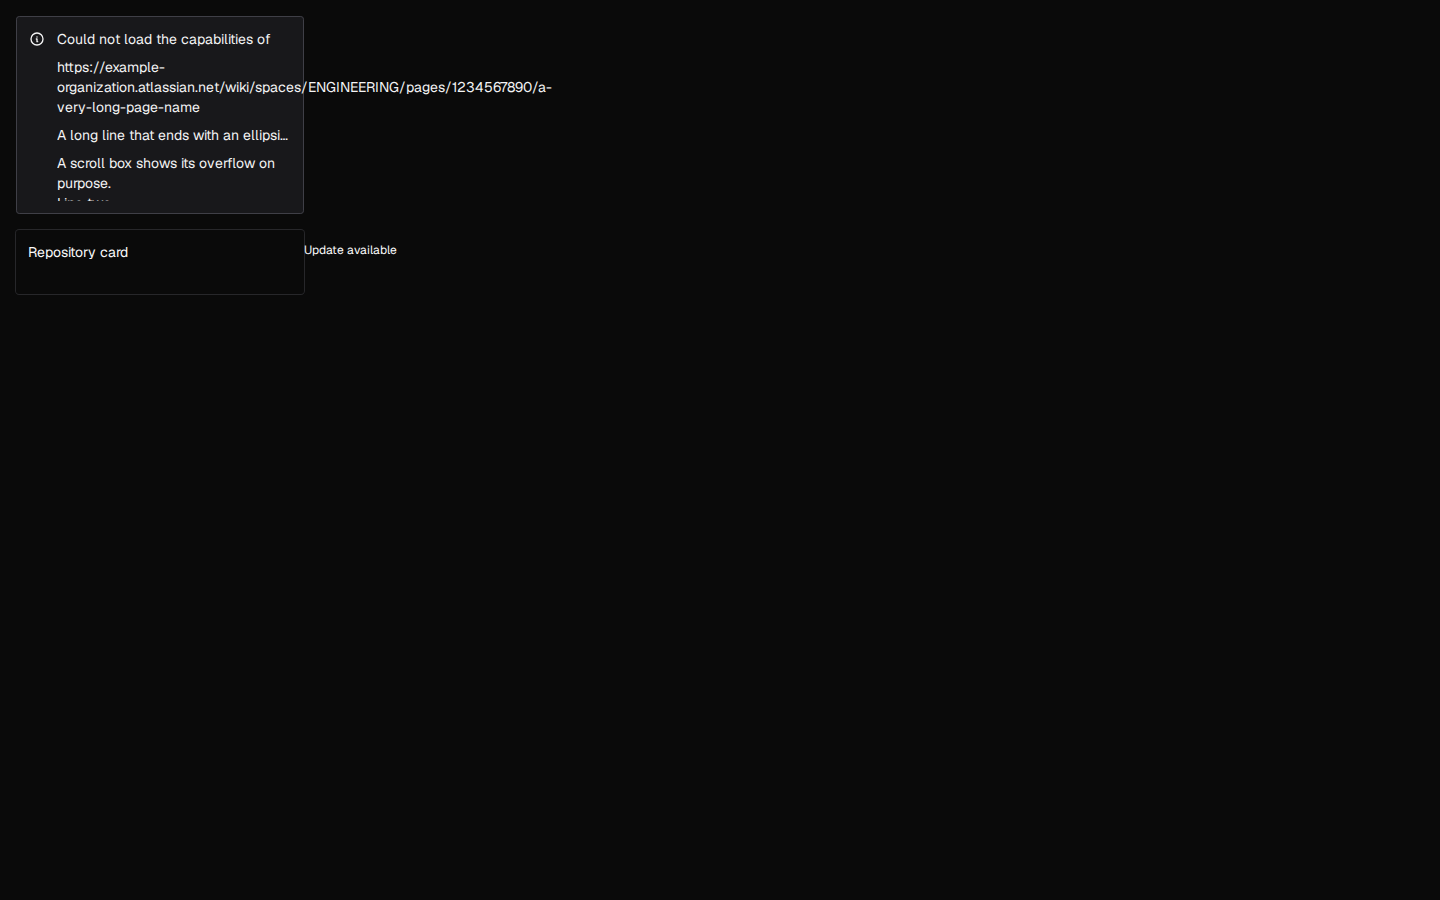
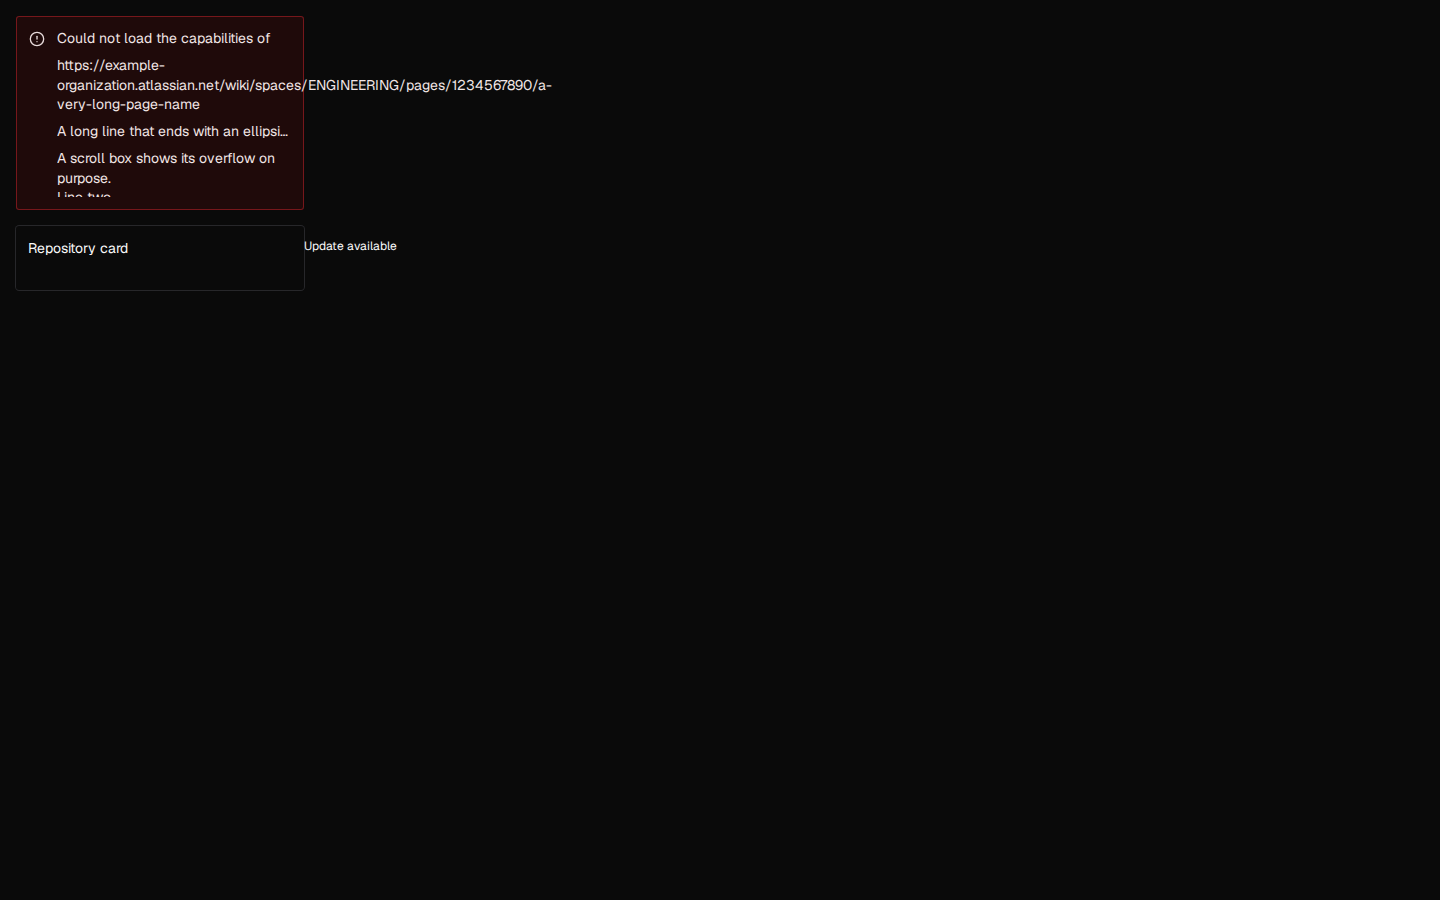
Layout checks: answers to the second review round (CTX-1277)
- axes: a box with a border or fill is its own panel, except a list
  item with one marker (a filled row of the column). An alert in a
  dialog has its own axes again.
- The masks of a story hide the same elements for the layout checks as
  for the screenshot.
- The overflow fixture uses the shared InlineAlert.
- One helper for the text boxes and one for "no common area"; the
  VisualOptions.allow type comes from the manifest enum; LayoutRule is
  not exported.
- WorkspacePane stories merge the opt-out after the spread of their
  parameters.

Changed region(s): [[0.0, 0.0311, 0.375, 0.3111], [0.1875, 0.2489, 0.2812, 0.28]]

diff --git a/apps/ui/src/lib/layout-checks.ts b/apps/ui/src/lib/layout-checks.ts
@@ -16,7 +16,7 @@
  * (scripts/checks/visual.mjs). The fixture stories of
  * `layout-checks.stories.tsx` prove each rule.
  */
-export type LayoutRule = "overflow" | "axes" | "contrast"
+type LayoutRule = "overflow" | "axes" | "contrast"
 
 type LayoutProblem = {
   rule: LayoutRule
@@ -93,16 +93,9 @@ const dialogs = "dialog, [role=dialog], [role=alertdialog], [data-slot=modal]"
 function overflowProblems(root: Element): LayoutProblem[] {
   const problems: LayoutProblem[] = []
   const named = new Set<Element>()
-  const walker = document.createTreeWalker(root, NodeFilter.SHOW_TEXT)
-  for (let node = walker.nextNode(); node; node = walker.nextNode()) {
+  for (const { node, rects } of textRects(root)) {
     const parent = node.parentElement
-    if (!parent || !node.textContent?.trim() || parent.closest("svg")) continue
-    const range = document.createRange()
-    range.selectNodeContents(node)
-    const rects = [...range.getClientRects()].filter(
-      (rect) => rect.width && rect.height,
-    )
-    if (!rects.length || !visible(parent)) continue
+    if (!parent || parent.closest("svg") || !visible(parent)) continue
     const text = {
       left: Math.min(...rects.map((rect) => rect.left)),
       right: Math.max(...rects.map((rect) => rect.right)),
@@ -162,11 +155,7 @@ function boxAroundText(
       const hidden =
         inner.right - inner.left <= 1 ||
         inner.bottom - inner.top <= 1 ||
-        (clips &&
-          (text.right <= inner.left ||
-            text.left >= inner.right ||
-            text.bottom <= inner.top ||
-            text.top >= inner.bottom))
+        (clips && apart(text, inner))
       if (hidden || !seen(box, text)) return undefined
       return {
         box,
@@ -223,16 +212,32 @@ function seen(box: Element, text: Edges): boolean {
   ) {
     const style = getComputedStyle(element)
     if (style.overflowX === "visible" && style.overflowY === "visible") continue
-    const clip = element.getBoundingClientRect()
-    if (
-      text.right <= clip.left ||
-      text.left >= clip.right ||
-      text.bottom <= clip.top ||
-      text.top >= clip.bottom
-    )
-      return false
+    if (apart(text, element.getBoundingClientRect())) return false
   }
   return true
+}
+
+/** True when the text and the box have no area in common. */
+const apart = (text: Edges, box: Edges) =>
+  text.right <= box.left ||
+  text.left >= box.right ||
+  text.bottom <= box.top ||
+  text.top >= box.bottom
+
+/** Each text node in `root` with text, and the boxes of its lines. */
+function textRects(root: Element): { node: Text; rects: DOMRect[] }[] {
+  const found: { node: Text; rects: DOMRect[] }[] = []
+  const walker = document.createTreeWalker(root, NodeFilter.SHOW_TEXT)
+  for (let node = walker.nextNode(); node; node = walker.nextNode()) {
+    if (!(node instanceof Text) || !node.textContent?.trim()) continue
+    const range = document.createRange()
+    range.selectNodeContents(node)
+    const rects = [...range.getClientRects()].filter(
+      (rect) => rect.width && rect.height,
+    )
+    if (rects.length) found.push({ node, rects })
+  }
+  return found
 }
 
 /** The edge of `box` that the text passes most, beyond the tolerance. */
@@ -262,9 +267,9 @@ function axisProblems(root: Element): LayoutProblem[] {
   const problems: LayoutProblem[] = []
   for (const scope of scopes) {
     if (!visible(scope)) continue
-    // Markers in one panel: a box with its own border or fill around two or
-    // more markers (a bordered list, a card) has its own axes. A box around
-    // one marker is a row of its column (a filled row, a selected item).
+    // Markers in one panel: a box with its own border or fill (a bordered
+    // list, a card, an alert) has its own axes. A list item with one marker
+    // is a row of its column (a filled row, a selected item).
     const markers = leadingMarkers(scope)
     const panels = new Map<Element, Marker[]>()
     for (const marker of markers) {
@@ -277,7 +282,10 @@ function axisProblems(root: Element): LayoutProblem[] {
         const holds = markers.filter((other) =>
           panel.contains(other.element),
         ).length
-        if (boxed && holds > 1) break
+        const row = panel.matches(
+          "li, [role=listitem], [role=option], [role=row], [role=menuitem], [role=treeitem]",
+        )
+        if (boxed && (holds > 1 || !row)) break
       }
       panels.set(panel, [...(panels.get(panel) ?? []), marker])
     }
@@ -315,14 +323,7 @@ function axisProblems(root: Element): LayoutProblem[] {
  * line. A table cell, and an icon before a text field, are not markers.
  */
 function leadingMarkers(scope: Element): Marker[] {
-  const lines: DOMRect[] = []
-  const walker = document.createTreeWalker(scope, NodeFilter.SHOW_TEXT)
-  for (let node = walker.nextNode(); node; node = walker.nextNode()) {
-    if (!node.textContent?.trim()) continue
-    const range = document.createRange()
-    range.selectNodeContents(node)
-    lines.push(...range.getClientRects())
-  }
+  const lines = textRects(scope).flatMap(({ rects }) => rects)
   const markers: Marker[] = []
   for (const row of scope.querySelectorAll("*")) {
     if (row instanceof SVGElement) continue

diff --git a/apps/ui/src/lib/layout-checks.stories.tsx b/apps/ui/src/lib/layout-checks.stories.tsx
@@ -3,6 +3,7 @@ import { IconCheck, IconInfoCircle } from "@tabler/icons-react"
 import { expect } from "storybook/test"
 
 import { Card } from "@/components/ui/Card"
+import { InlineAlert } from "@/components/ui/InlineAlert"
 
 import { layoutProblems } from "./layout-checks"
 
@@ -33,26 +34,26 @@ function Overflow({ fixed }: { fixed: boolean }) {
   )
 }
 
+// The shared alert, with a long URL that runs out of it when `breakUrl` is
+// false.
 function Alert({ breakUrl }: { breakUrl: boolean }) {
   return (
-    <div
-      role="alert"
-      className="flex w-72 gap-3 rounded-md border border-zinc-700 bg-zinc-900 p-3 text-sm text-zinc-100"
-    >
-      <IconInfoCircle className="mt-0.5 size-4 shrink-0" aria-hidden />
-      <div className="min-w-0 flex-1 space-y-2">
-        <p>Could not load the capabilities of</p>
-        <p className={breakUrl ? "break-all" : undefined}>{longUrl}</p>
-        <p className="truncate">
-          A long line that ends with an ellipsis, on purpose
-        </p>
-        <div className="h-12 overflow-y-auto">
-          <p>A scroll box shows its overflow on purpose.</p>
-          <p>Line two.</p>
-          <p>Line three.</p>
-          <p>Line four.</p>
+    <div className="w-72">
+      <InlineAlert variant="error">
+        <div className="space-y-2">
+          <p>Could not load the capabilities of</p>
+          <p className={breakUrl ? "break-all" : undefined}>{longUrl}</p>
+          <p className="truncate">
+            A long line that ends with an ellipsis, on purpose
+          </p>
+          <div className="h-12 overflow-y-auto">
+            <p>A scroll box shows its overflow on purpose.</p>
+            <p>Line two.</p>
+            <p>Line three.</p>
+            <p>Line four.</p>
+          </div>
         </div>
-      </div>
+      </InlineAlert>
     </div>
   )
 }

diff --git a/apps/ui/src/features/workspaces/WorkspacePane.stories.tsx b/apps/ui/src/features/workspaces/WorkspacePane.stories.tsx
@@ -630,10 +630,11 @@ function conversationFileStory(path: string): Story {
  * not in git, so the conversation shows the reason and no editor.
  */
 export const LegacyKnowledgeReadOnly: Story = {
+  ...conversationFileStory(legacyPath),
   parameters: {
+    ...conversationFileStory(legacyPath).parameters,
     visual: { allow: { contrast: "Text below WCAG AA on main (CTX-1278)." } },
   },
-  ...conversationFileStory(legacyPath),
   play: async ({ canvasElement }) => {
     const canvas = within(canvasElement)
     await waitFor(() => {
@@ -645,10 +646,11 @@ export const LegacyKnowledgeReadOnly: Story = {
 
 /** In the same conversation, a git file opens in the editor. */
 export const GitFileEditable: Story = {
+  ...conversationFileStory(ledgerPath),
   parameters: {
+    ...conversationFileStory(ledgerPath).parameters,
     visual: { allow: { contrast: "Text below WCAG AA on main (CTX-1278)." } },
   },
-  ...conversationFileStory(ledgerPath),
   play: async ({ canvasElement }) => {
     await expectFileEditable(canvasElement, "Billing ledger", true)
     expect(

diff --git a/packages/visual-review/src/compare/baselines.ts b/packages/visual-review/src/compare/baselines.ts
@@ -22,6 +22,7 @@ import {
 } from "./manifest.ts"
 
 type Viewport = "desktop" | "mobile"
+type LayoutProblem = NonNullable<ManifestStory["layout"]>[number]
 
 /** A story entry of the Storybook index (`storybook-static/index.json`). */
 export type IndexStory = {
@@ -50,7 +51,7 @@ export type VisualOptions = {
   fullPage?: boolean
   masks?: string[]
   /** The layout rules that the story accepts, each with its reason. */
-  allow?: Partial<Record<"overflow" | "axes" | "contrast", string>>
+  allow?: Partial<Record<Exclude<LayoutProblem["rule"], "error">, string>>
 }
 
 /**

diff --git a/.agents/skills/storybook/SKILL.md b/.agents/skills/storybook/SKILL.md
@@ -158,7 +158,7 @@ A story controls its screenshots with `parameters: { visual: { ... } }`, in the 
 
 ## Layout checks
 
-After the screenshot of the end state of a story, the capture runs the layout checks in the same page ([`apps/ui/src/lib/layout-checks.ts`](../../../apps/ui/src/lib/layout-checks.ts)). The browser has the real layout, so the numbers are exact. A problem fails the `storybook:visual` check of the story, also when the pixels did not change. The message names the viewport, the rule, the element and the numbers. A named snapshot has no layout checks.
+After the screenshot of the end state of a story, the capture runs the layout checks in the same page ([`apps/ui/src/lib/layout-checks.ts`](../../../apps/ui/src/lib/layout-checks.ts)). The browser has the real layout, so the numbers are exact. A problem fails the `storybook:visual` check of the story, also when the pixels did not change. The message names the viewport, the rule, the element and the numbers. A named snapshot has no layout checks. The masks of the story (`data-visual-mask` and `masks`) hide the same elements for the checks as for the screenshot.
 
 - `overflow`: text that runs out of a box around it, or that a box clips with no ellipsis, and dialog text outside of the viewport. The message names the innermost box. Text in a scroll container, `truncate` and `line-clamp` text, and text that a clip or the viewport hides completely (a collapsed panel, a pane that slides in) are not problems. A positioned layer (a badge, a popover) can sit outside of its parent, but not outside of its dialog, alert or card. A vertical overflow up to a quarter of the font size is the line box of the font, not a cut. The rule measures text only: an empty box (an image, a field) outside of its container is not found.
 - `axes`: in one dialog or modal, or in one list outside of a dialog, the leading markers of the rows sit on near axes: their centers differ by more than 0.5 px and less than 8 px. A marker is an icon, a checkbox or a step marker (a box of 6 to 40 px, with no text or a step number) at the start of its line, with text to its right. One center line, or a clear indent, is not a problem. Markers in a box with its own border or fill around two or more markers (a bordered list, a card) have their own axes; a filled row with one marker stays in the column. An icon before a text field (a search icon) is not a marker.
